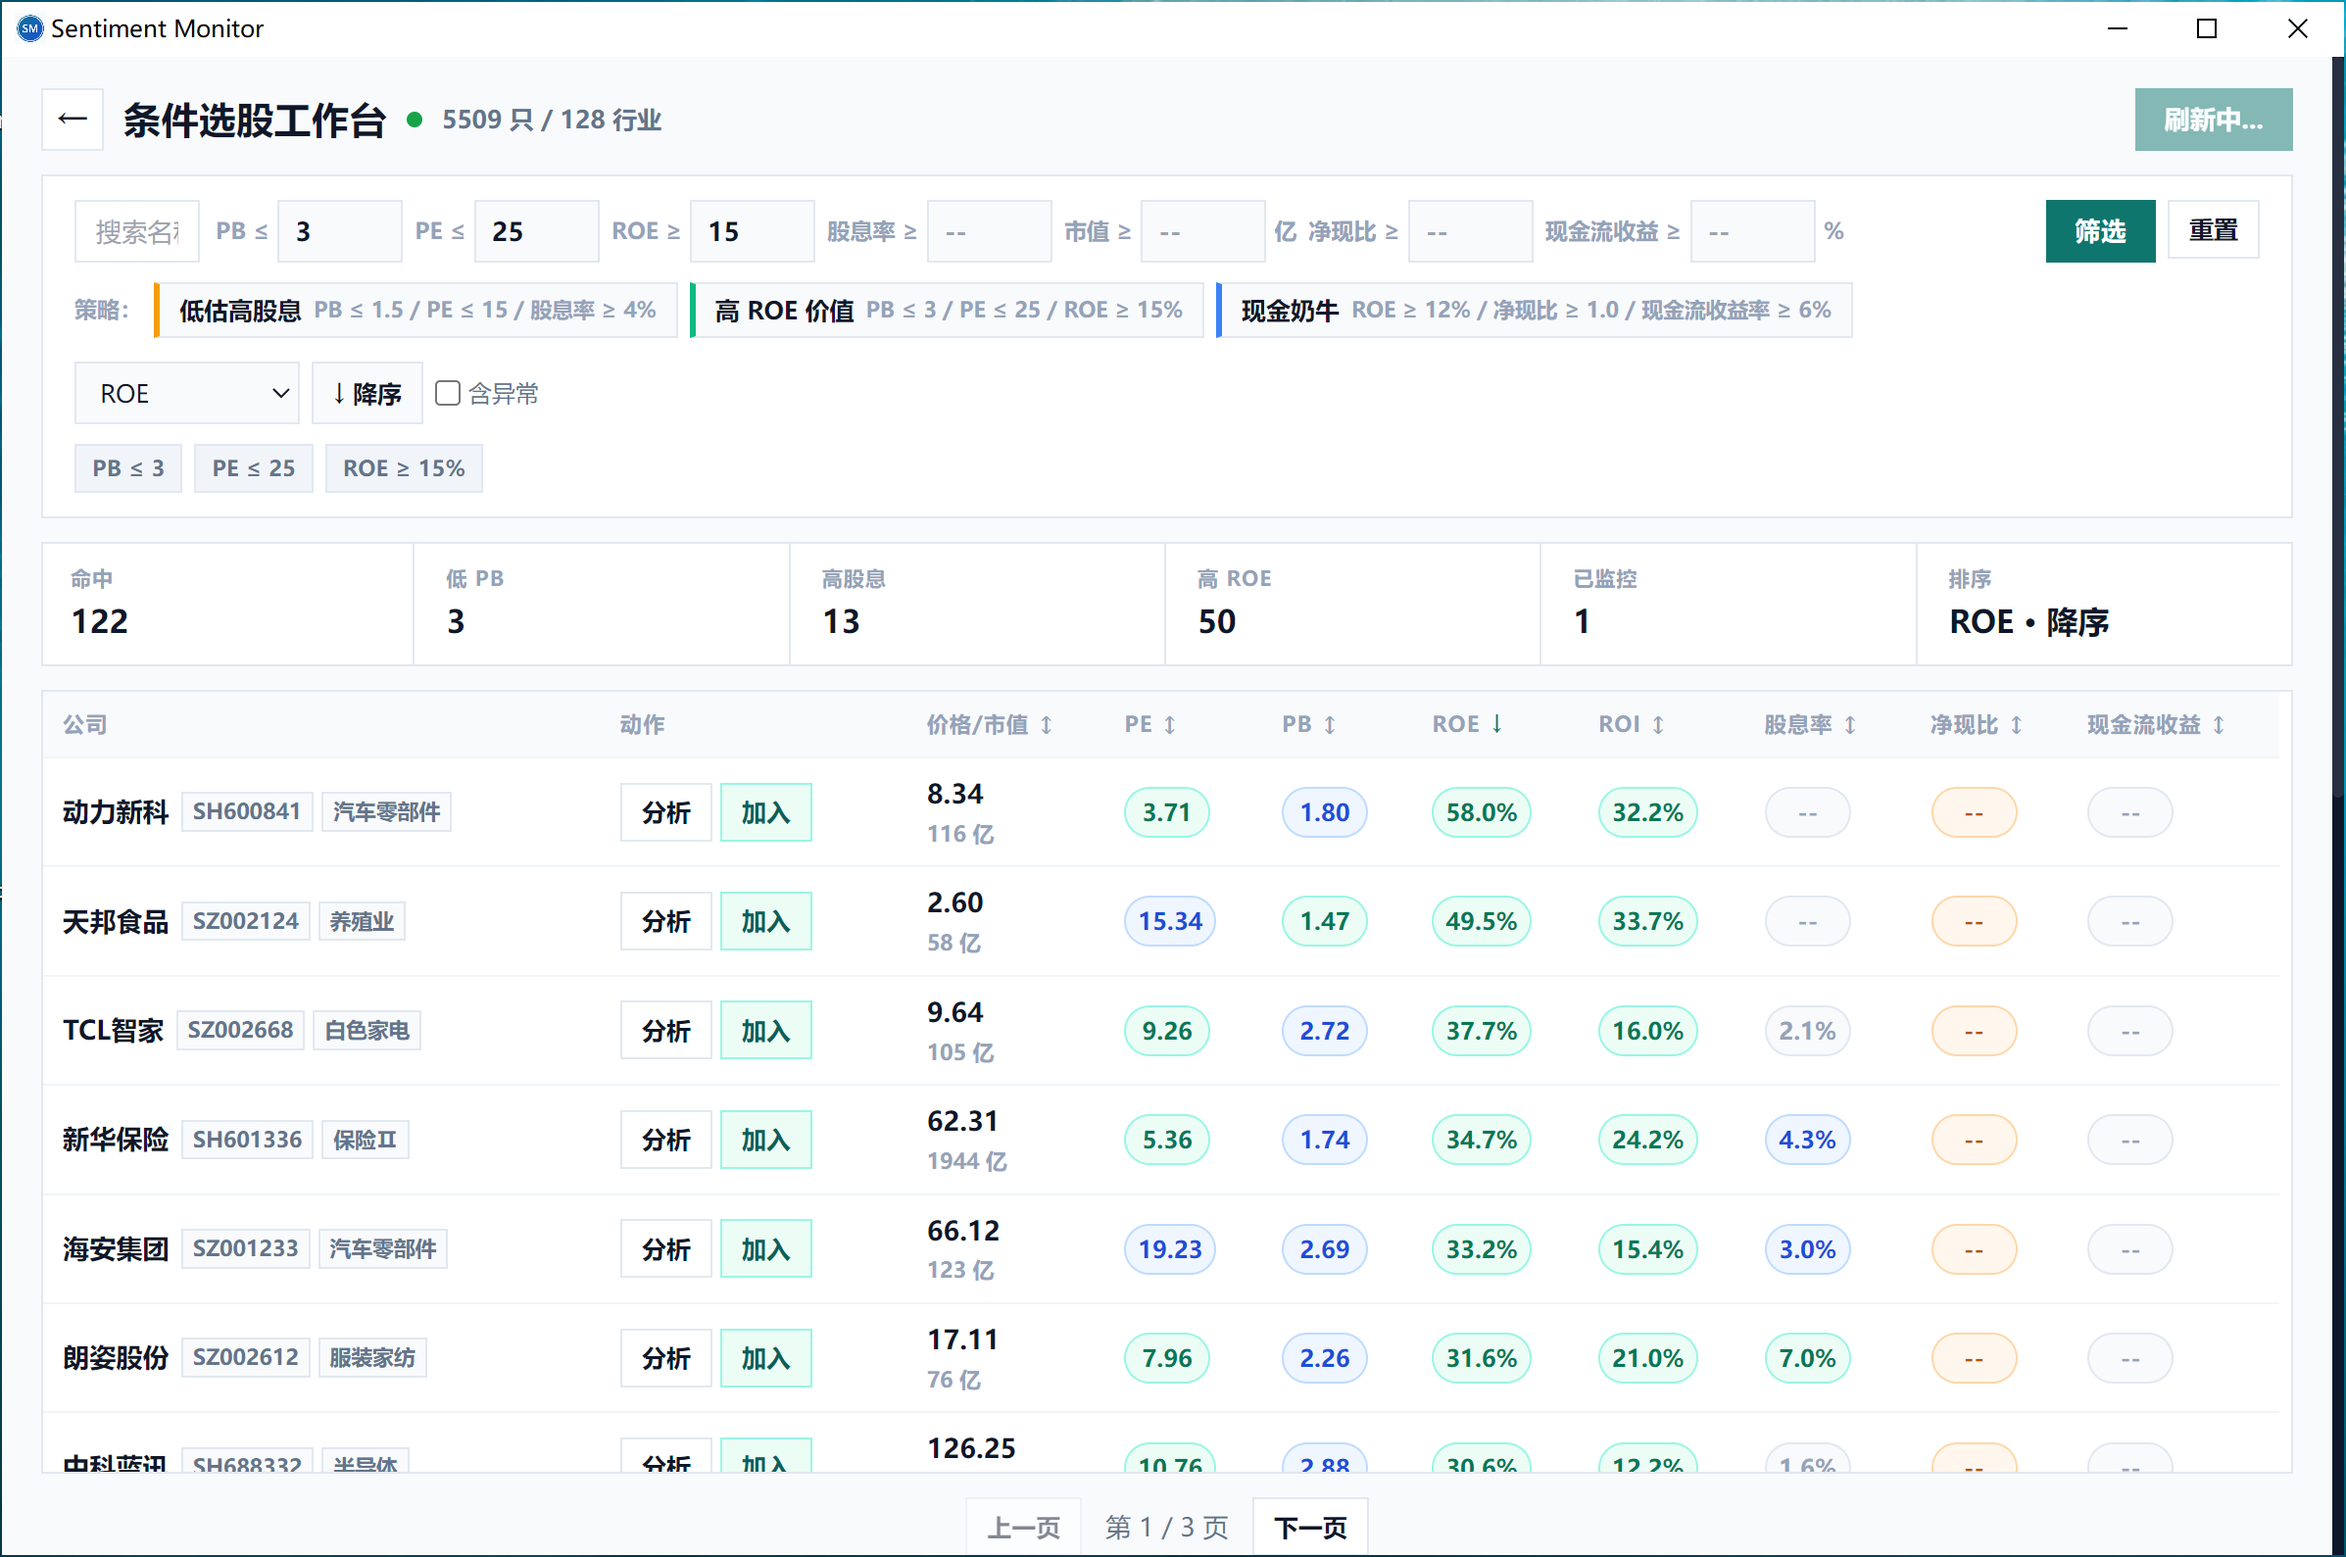
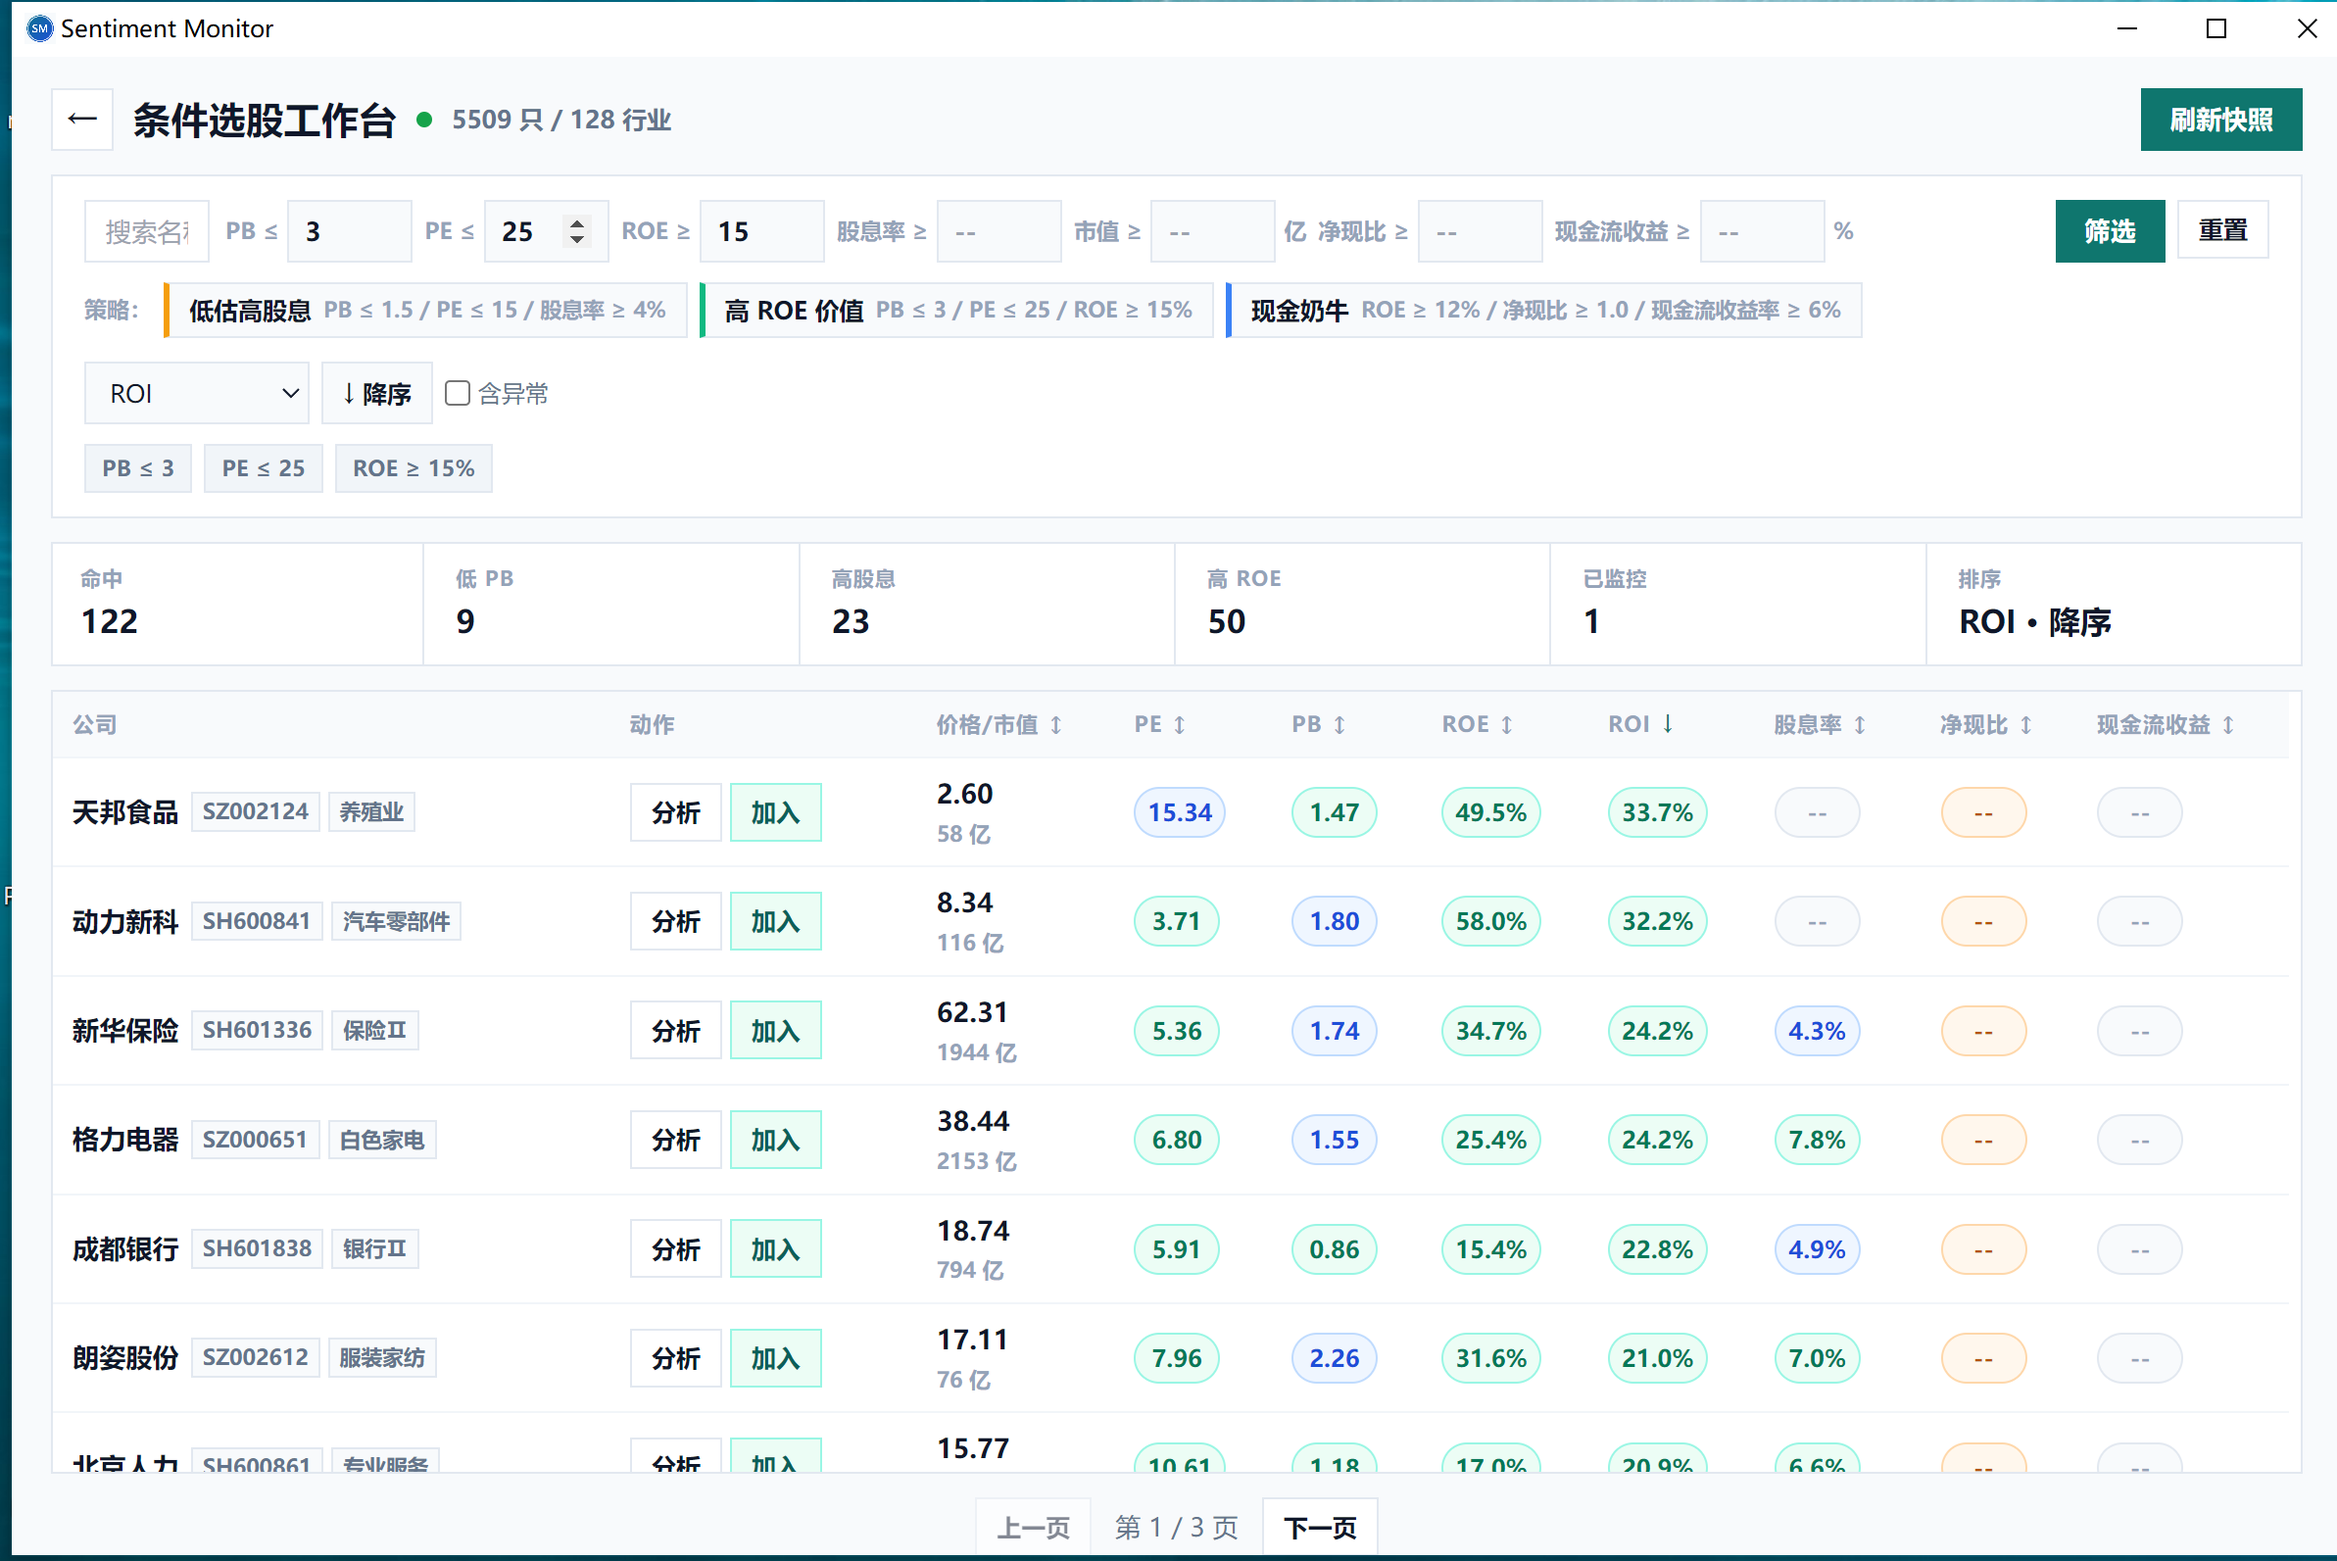
docs: 展示图标签改为价差跟踪，更新条件选股截图

diff --git a/README.md b/README.md
@@ -4,9 +4,9 @@
 
 ## 页面功能展示
 
-| 首页看板 | 对比分析 | 深度分析 |
+| 首页看板 | 价差跟踪 | 深度分析 |
 | :---: | :---: | :---: |
-| ![首页看板](docs/screenshots/QQ图片20260327161155.png) | ![对比分析](docs/screenshots/QQ图片20260327161107.png) | ![深度分析](docs/screenshots/QQ图片20260327161212.png) |
+| ![首页看板](docs/screenshots/QQ图片20260327161155.png) | ![价差跟踪](docs/screenshots/QQ图片20260327161107.png) | ![深度分析](docs/screenshots/QQ图片20260327161212.png) |
 | **条件选股** | **工具箱** | |
 | ![条件选股](docs/screenshots/条件选股.png) | ![工具箱](docs/screenshots/工具箱.png) | |
 
